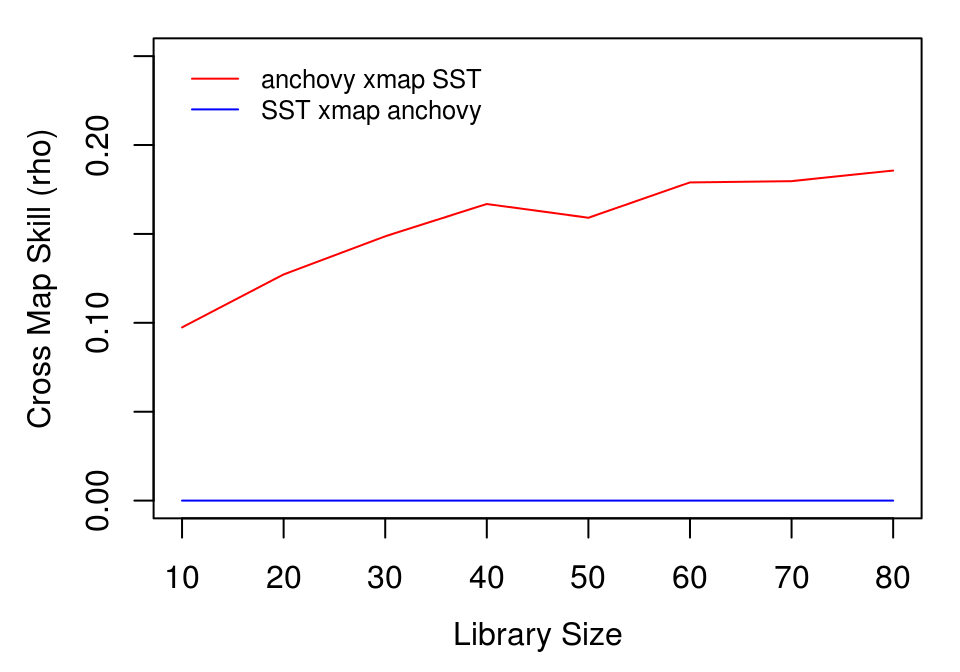
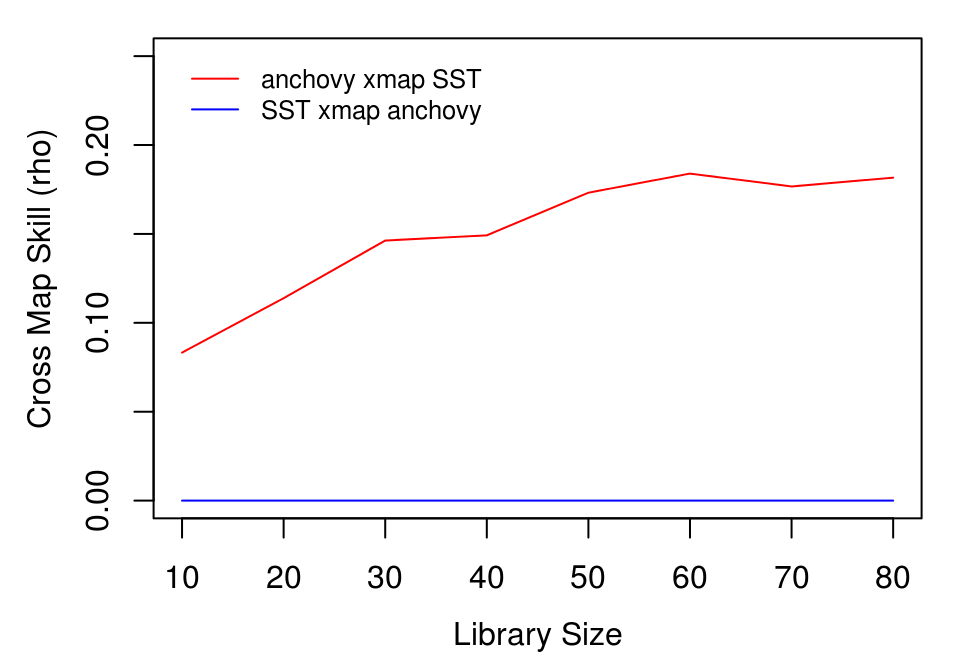
Deploy ha0ye/rEDM to github.com/ha0ye/rEDM.git:gh-pages

diff --git a/articles/rEDM.html b/articles/rEDM.html
@@ -487,9 +487,9 @@
 ##  $ target_column: Factor w/ 1 level "np_sst": 1 1 1 1 1 1 1 1 1 1 ...
 ##  $ lib_size     : num  10 10 10 10 10 10 10 10 10 10 ...
 ##  $ num_pred     : num  76 76 76 76 76 76 76 76 76 76 ...
-##  $ rho          : num  -0.2079 0.1178 0.2917 0.0802 0.2903 ...
-##  $ mae          : num  0.928 0.922 0.835 0.91 0.828 ...
-##  $ rmse         : num  1.14 1.14 1.04 1.11 1.04 ...</code></pre>
+##  $ rho          : num  0.1822 0.1437 0.2888 0.2561 0.0925 ...
+##  $ mae          : num  1.191 1.053 0.798 0.882 0.896 ...
+##  $ rmse         : num  1.513 1.311 0.993 1.117 1.123 ...</code></pre>
 <p>The output is a data.frame with statistics for each model run (in this case, 100 models at each of 8 library sizes). To interpret the results, we aggregate the cross map performance at each library size using the <code><a href="../reference/ccm_means.html">ccm_means()</a></code> function, which computes a mean value at each unique <code>lib_size</code>. Because average cross map skill less than 0 means there is no prediction skill, (predictions should not be anticorrelated with observations), we set negative values to 0 when plotting.</p>
 <div class="sourceCode" id="cb35"><pre class="sourceCode r"><code class="sourceCode r"><a class="sourceLine" id="cb35-1" data-line-number="1">a_xmap_t_means &lt;-<span class="st"> </span><span class="kw"><a href="../reference/ccm_means.html">ccm_means</a></span>(anchovy_xmap_sst)</a>
 <a class="sourceLine" id="cb35-2" data-line-number="2">t_xmap_a_means &lt;-<span class="st"> </span><span class="kw"><a href="../reference/ccm_means.html">ccm_means</a></span>(sst_xmap_anchovy)</a>
